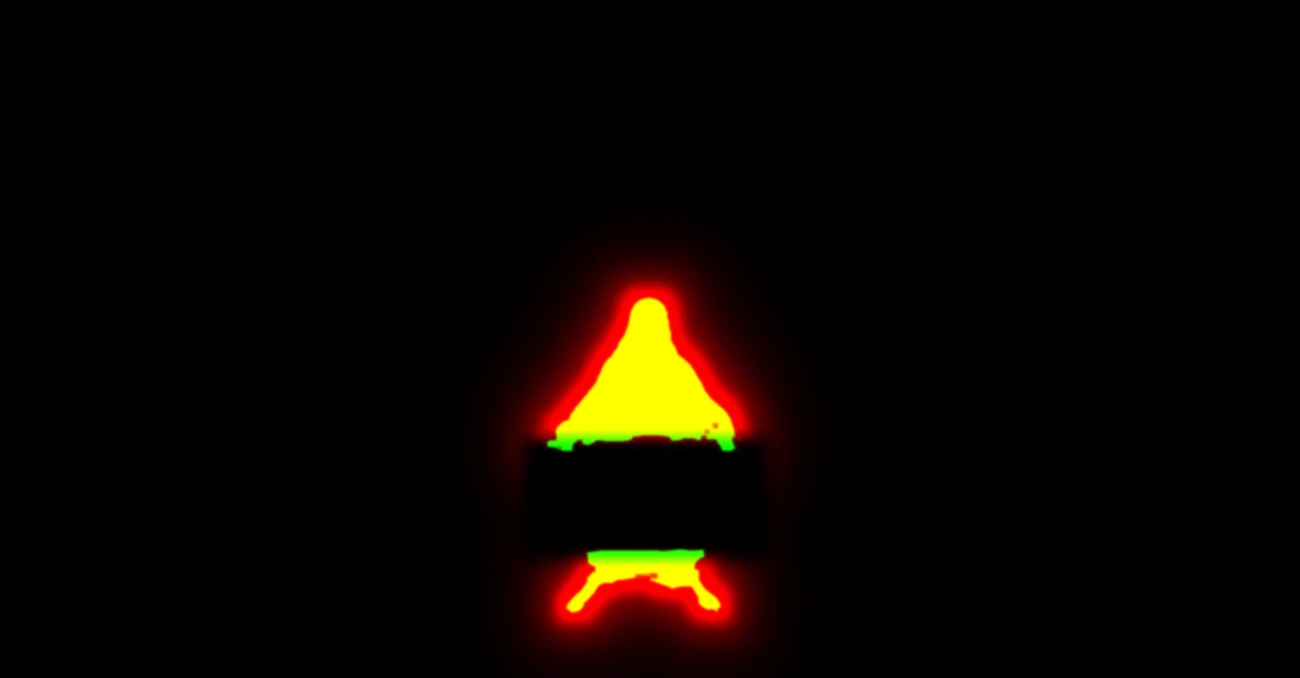
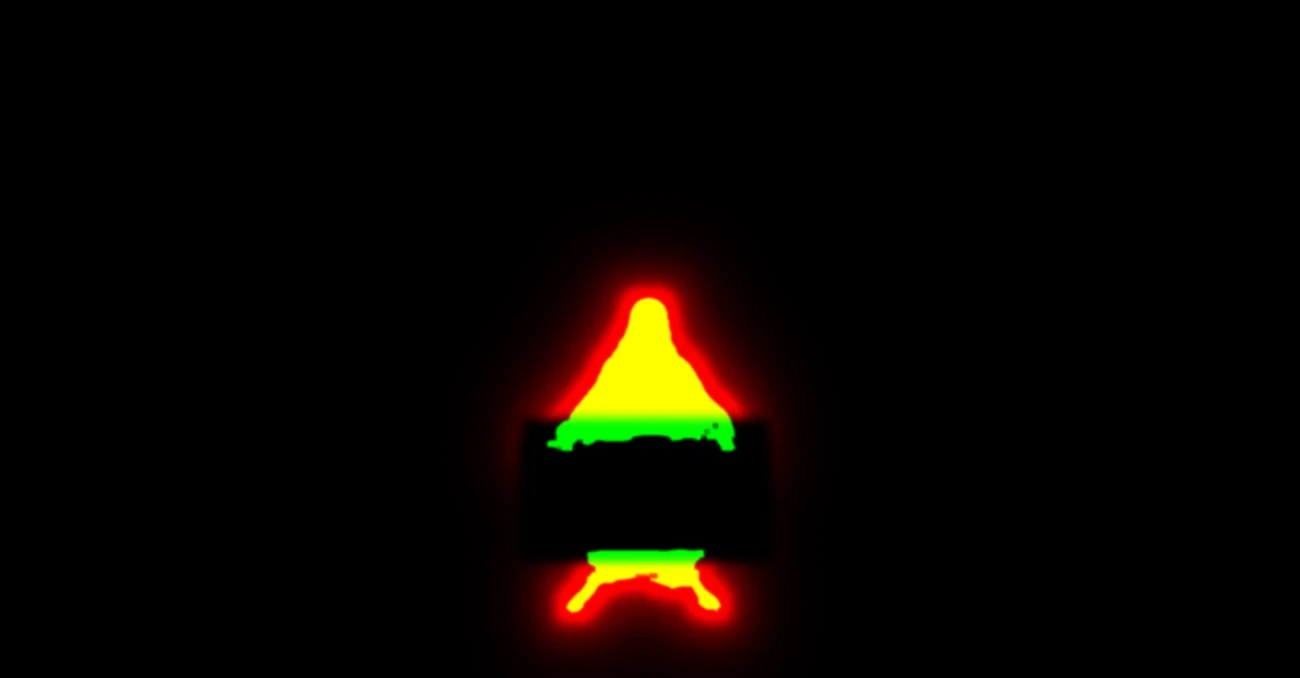
Glitch: random torn pieces of both paintings, even width around God, Christ unbroken
- Torn strips are several pieces per row, each a random patch of one of
  the other two paintings (half the time near their figures), opaque,
  taller, with torn-paper edges; the night shows both the Creation and
  the Last Supper.
- Day: the glitch hugs God at one even width; no filled block under his
  arm.
- Last Supper: the table edge under Christ's arms stays clear too.

Changed region(s): [[0.4, 0.5885, 0.6154, 0.6814], [0.4308, 0.8053, 0.5538, 0.8363]]

diff --git a/public/main.js b/public/main.js
@@ -45,8 +45,8 @@ const load = src => new Promise((res, rej) => { const i = new Image(); i.onload 
 // each picture is one painting grown past Michelangelo's frame; wide and tall screens are cut from it around its focus
 const shape = innerWidth / innerHeight >= .8 ? 'wide' : 'tall';
 if (!gl) { root.classList.add('no-gl'); ready(); }
-else fetch('/img/scene.json?v=1791967020').then(r => r.json()).then(meta =>
-  Promise.all([shape === 'wide' ? 'night-wide' : 'night', shape === 'wide' ? 'night-wide-flow' : 'night-flow', shape === 'wide' ? 'day' : 'day-tall', shape === 'wide' ? 'day-flow' : 'day-tall-flow', shape === 'wide' ? 'supper' : 'supper-tall', shape === 'wide' ? 'supper-flow' : 'supper-tall-flow', shape === 'wide' ? 'day-rift' : 'day-tall-rift', shape === 'wide' ? 'supper-aura' : 'supper-tall-aura'].map(n => load(`/img/${n}.webp?v=1791967020`)))
+else fetch('/img/scene.json?v=1791967747').then(r => r.json()).then(meta =>
+  Promise.all([shape === 'wide' ? 'night-wide' : 'night', shape === 'wide' ? 'night-wide-flow' : 'night-flow', shape === 'wide' ? 'day' : 'day-tall', shape === 'wide' ? 'day-flow' : 'day-tall-flow', shape === 'wide' ? 'supper' : 'supper-tall', shape === 'wide' ? 'supper-flow' : 'supper-tall-flow', shape === 'wide' ? 'day-rift' : 'day-tall-rift', shape === 'wide' ? 'supper-aura' : 'supper-tall-aura'].map(n => load(`/img/${n}.webp?v=1791967747`)))
     .then(ims => paint(gl, ims, meta[shape])))
   .catch(e => { console.error(String(e && e.message || e)); root.classList.add('no-gl'); ready(); });   // log, then fall back
 
@@ -239,19 +239,21 @@ function paint(gl, [nightImg, nightFlow, dayImg, dayFlow, supImg, supFlow, riftI
   // a torn strip of another painting, showing its heart at a size you can recognise (a hand, a face, the light)
   uniform vec2 FN_, FD_, FL_;
   uniform vec3 HALO;               // Christ's head in the Last Supper: u, v (from top), radius (in widths)      // focal points (uv) of the night, the day, the Last Supper
+  // a torn strip of another painting: any piece of it, at random (now and then its heart: a face, the hands, the light)
   vec3 other(sampler2D SA, vec2 fa, sampler2D SB, vec2 fb, vec2 p, float k){
-    bool useA = hh(k*5.3) < .5; vec2 f = useA ? fa : fb;
-    vec2 jit = (vec2(hh(k*1.7), hh(k*3.1 + 2.)) - .5) * vec2(.06, .04);
-    float row = fract(p.y*12. + hh(floor(T*5.) + 4.)*5.) - .5;               // where in the torn strip we are
-    float sx = hh(k*9.1) - .5;                                               // the strip slides as one piece
-    vec2 u2 = clamp(f + jit + vec2((p.x - A*.5 + sx*.3)*.55, -row*.18), .001, .999);   // that painting's heart, at a natural scale
+    bool useA = hh(k*5.3 + 1.7) < .5; vec2 f = useA ? fa : fb;
+    vec2 anyw = vec2(.12 + .76*hh(k*1.7), .18 + .64*hh(k*3.1 + 2.));
+    vec2 c = mix(anyw, f + (vec2(hh(k*2.2), hh(k*6.6)) - .5)*vec2(.35, .25), step(.5, hh(k*8.9)));   // half the time near the figures                            // mostly anywhere, sometimes the heart
+    float sc = .9 + .7*hh(k*4.4);
+    float row = fract(p.y*7. + hh(floor(T*5.) + 4.)*5.) - .5;
+    vec2 u2 = clamp(c + vec2((p.x - floor(p.x*2.6)/2.6)*sc*.55, -row*.09*sc*2.), .001, .999);   // each piece shows its own patch
     return useA ? texture(SA, u2).rgb : texture(SB, u2).rgb;
   }
-  float GA;   // how much of this pixel is actually torn (the rest lets the painting show)
+  float GA, GT;   // how much of this pixel is torn; GT: how much is a strip of another painting
   vec3 glitch(sampler2D Tx, sampler2D Oa, vec2 fa, sampler2D Ob, vec2 fb, vec4 R, vec2 p, float amt, float seed){
     // torn slices that slide, a rolling wave, a colour split, smears; and some slices are torn from the other paintings
     float fr = floor(T*14. + seed), fr2 = floor(T*5. + seed);
-    float band = floor(p.y*140. + hh(fr2)*30.), band2 = floor(p.y*34. + hh(fr2 + 1.)*9.), band3 = floor(p.y*12. + hh(fr2 + 4.)*5.);
+    float band = floor(p.y*140. + hh(fr2)*30.), band2 = floor(p.y*34. + hh(fr2 + 1.)*9.), band3 = floor(p.y*7. + hh(fr2 + 4.)*5.);
     float on = step(.6 - .12*amt, hh(band2*3.1 + fr*.7 + seed));
     float slice = on * (hh(band*1.7 + fr) - .5) * .16 * amt;
     float wave = sin(p.y*38. + T*7. + seed) * .006 * amt + sin(p.y*170. - T*23.) * .0018 * amt;
@@ -262,11 +264,18 @@ function paint(gl, [nightImg, nightFlow, dayImg, dayFlow, supImg, supFlow, riftI
     vec3 sm = vec3(0.); for (int i = 1; i <= 6; i++) sm += texture(Tx, uv - vec2(float(i)*.008*on/R.z, 0.)).rgb;
     c = mix(c, max(c, sm/6.), .35*on);
     // strips torn from the other paintings, with their own colour split
-    float tear = step(.72 - .1*amt, hh(band3*2.3 + floor(T*6. + seed)*1.1 + seed));
-    float xs = smoothstep(.0, .02, fract(p.x*1.3 + hh(band3 + fr2)) ) * step(fract(p.x*1.3 + hh(band3 + fr2)), .55 + .4*hh(band3*7.));
-    vec3 oc = other(Oa, fa, Ob, fb, p, band3 + fr2*13. + seed);
+    // torn strips: several pieces side by side in a row, each from a different place; soft ragged edges, never hard boxes
+    float segx = p.x*2.6 + hh(band3 + fr2)*3.;
+    float sid = floor(segx), fx = fract(segx);
+    float key = band3*7.1 + sid*3.3 + fr2*13. + seed;
+    float tear = step(.78 - .2*amt, hh(key*2.3 + floor(T*6. + seed)*1.1));
+    float rowf = fract(p.y*7. + hh(fr2 + 4.)*5.);
+    float rag = .07*(vn(vec2(p.y*70., key*3.7)) - .5) + .035*(vn(vec2(p.y*260., key)) - .5) + .05*(vn(vec2(p.x*60., key*1.3)) - .5);   /* torn paper, not perforations */
+    float xs = smoothstep(.0, .06, fx + rag) * smoothstep(.0, .06, (.6 + .35*hh(key*7.)) - fx + rag)
+             * smoothstep(.0, .12, rowf + rag) * smoothstep(.0, .12, 1. - rowf + rag);
+    vec3 oc = other(Oa, fa, Ob, fb, p, key);
     c = mix(c, oc*vec3(1.05, 1., .95), tear*xs);
-    GA = clamp(max(on*.95, tear*xs) + .12, 0., 1.);
+    GA = clamp(max(on*.95, tear*xs) + .12, 0., 1.); GT = tear*xs;
     c = c*vec3(1.08, 1.03, .92) + vec3(.07, .06, .03);
     c *= .94 + .06*sin(gl_FragCoord.y*2.2 + T*30.);
     return c;
@@ -278,7 +287,7 @@ function paint(gl, [nightImg, nightFlow, dayImg, dayFlow, supImg, supFlow, riftI
     vec3 col = vec3(0.); float a = 0.;
     // night: the whole storm glitches, hardest at God's light
     float mn = .22 + .5*smoothstep(.6, .05, length(vp - GL));
-    if (wN > .01) { vec3 c = glitch(TN, TD, FD_, TL, FL_, RN, vp, 1.1, 1.); float g_ = wN*mn*GA; col += c*g_; a += g_; }
+    if (wN > .01) { vec3 c = glitch(TN, TD, FD_, TL, FL_, RN, vp, 1.1, 1.); float g_ = wN*max(mn*GA, GT); col += c*g_; a += g_; }
     // day: the rift around God
     vec2 du = clamp(vec2((vp.x - RD.x)/RD.z, 1. - (vp.y - RD.y)/RD.w), 0., 1.);
     float md = texture(TG, du).r;

diff --git a/public/index.html b/public/index.html
@@ -19,7 +19,7 @@
 <link rel="preconnect" href="https://fonts.googleapis.com">
 <link rel="preconnect" href="https://fonts.gstatic.com" crossorigin>
 <link rel="stylesheet" href="https://fonts.googleapis.com/css2?family=Cinzel:wght@400;500&family=Cormorant+Garamond:ital,wght@0,300;0,400;1,300;1,400&display=swap">
-<link rel="stylesheet" href="/style.css?v=1791967020">
+<link rel="stylesheet" href="/style.css?v=1791967747">
 <script>document.documentElement.classList.add('js')</script>
 </head>
 <body>
@@ -85,6 +85,6 @@
 
 
 <noscript><style>.reveal,.reveal-words,.display .line>span{opacity:1!important;transform:none!important}</style></noscript>
-<script type="module" src="/main.js?v=1791967020"></script>
+<script type="module" src="/main.js?v=1791967747"></script>
 </body>
 </html>
